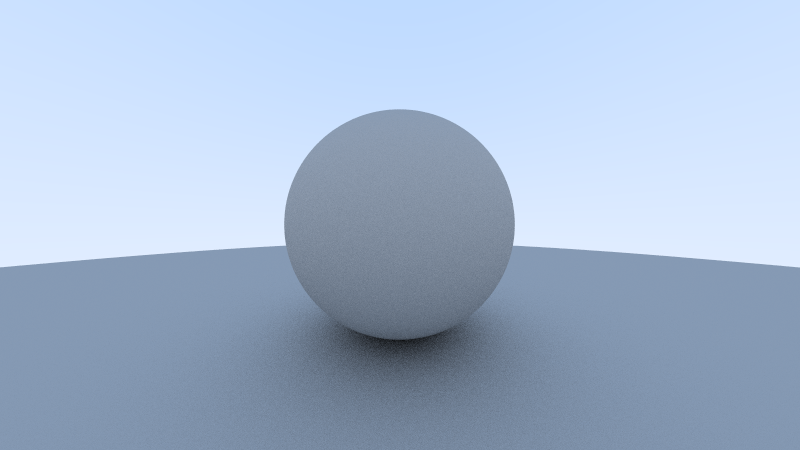
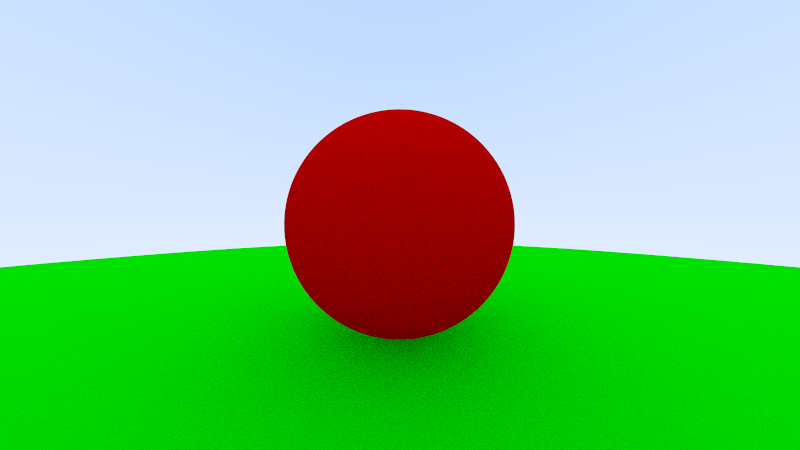
Materials and scene objects

diff --git a/src/main.rs b/src/main.rs
@@ -1,6 +1,7 @@
 mod color;
 mod config;
 mod image;
+mod material;
 mod math;
 mod random;
 mod scene;
@@ -23,17 +24,18 @@ pub type RayResult<T> = Result<T, Box<dyn std::error::Error>>;
 
 fn cast_ray(ray: &Ray, scene: &Scene, random: &mut Random, depth: u32) -> Color {
     if depth == 0 {
-        return Color::new(0.0, 0.0, 0.0);
+        return Color::BLACK;
     }
-    let hit = scene.shapes
+    let hit = scene.objects
         .iter()
-        .flat_map(|shape| shape.hit(&ray))
-        .min_by(|hit1, hit2| hit1.t.partial_cmp(&hit2.t).unwrap());
-    if let Some(hit) = hit {
-        let origin = ray.at(hit.t);
-        let direction = hit.normal + random.in_unit_sphere();
-        let ray = Ray { origin, direction };
-        return cast_ray(&ray, scene, random, depth - 1) * 0.5;
+        .flat_map(|object| object.shape.hit(&ray).map(|hit| (hit, &object.material)))
+        .min_by(|hit1, hit2| hit1.0.t.partial_cmp(&hit2.0.t).unwrap());
+    if let Some((hit, material)) = hit {
+        if let Some((color, ray)) = material.scatter(ray, &hit, random) {
+            return color * cast_ray(&ray, scene, random, depth - 1);
+        } else {
+            return Color::BLACK;
+        }
     }
     let unit_direction = ray.direction.normalized();
     let t = 0.5 * (unit_direction.y + 1.0);
@@ -47,7 +49,7 @@ fn render(scene: &Scene, config: &Config) -> Image {
     let mut colors = Vec::with_capacity((config.width * config.height) as usize);
     for j in 0 .. config.height {
         for i in 0 .. config.width {
-            let mut color = Color::new(0.0, 0.0, 0.0);
+            let mut color = Color::BLACK;
             for _ in 0 .. config.samples {
                 let u = (i as f64 + random.range01()) / (config.width - 1) as f64;
                 let v = 1.0 - (j as f64 + random.range01()) / (config.height - 1) as f64;

diff --git a/src/color.rs b/src/color.rs
@@ -1,8 +1,9 @@
 use std::ops::{Add, Mul};
-use serde::Deserialize;
+use serde::{Serialize, Deserialize};
 
 #[derive(Copy, Clone, Debug, Default, PartialEq)]
-#[derive(Deserialize)]
+#[derive(Serialize, Deserialize)]
+#[serde(into = "[f64; 3]")]
 #[serde(from = "[f64; 3]")]
 pub struct Color {
     pub r: f64,
@@ -11,6 +12,8 @@ pub struct Color {
 }
 
 impl Color {
+    pub const BLACK: Self = Self::new(0.0, 0.0, 0.0);
+    
     pub const fn new(r: f64, g: f64, b: f64) -> Self {
         Self { r, g, b }
     }
@@ -21,6 +24,12 @@ impl Color {
             g: self.g + (other.g - self.g) * t,
             b: self.b + (other.b - self.b) * t,
         }
+    }
+}
+
+impl Into<[f64; 3]> for Color {
+    fn into(self) -> [f64; 3] {
+        [self.r, self.g, self.b]
     }
 }
 
@@ -54,6 +63,18 @@ impl Mul<f64> for Color {
             r: self.r * other,
             g: self.g * other,
             b: self.b * other,
+        }
+    }   
+}
+
+impl Mul for Color {
+    type Output = Self;
+    
+    fn mul(self, other: Color) -> Self::Output {
+        Self {
+            r: self.r * other.r,
+            g: self.g * other.g,
+            b: self.b * other.b,
         }
     }   
 }

diff --git a/src/random.rs b/src/random.rs
@@ -25,7 +25,7 @@ impl Random {
         self.state as f64 / 4294967296.0
     }
 
-    pub fn in_unit_sphere(&mut self) -> Vector3 {
+    pub fn in_sphere(&mut self) -> Vector3 {
         loop {
             let v = Vector3::new(
                 self.range01() * 2.0 - 1.0, 
@@ -35,6 +35,15 @@ impl Random {
             if v.length_squared() < 1.0 {
                 return v;
             }
+        }
+    }
+
+    pub fn in_hemisphere(&mut self, normal: &Vector3) -> Vector3 {
+        let in_sphere = self.in_sphere();
+        if in_sphere.dot(normal) > 0.0 {
+            in_sphere
+        } else {
+            -in_sphere
         }
     }
 }

diff --git a/src/material.rs b/src/material.rs
@@ -1,0 +1,21 @@
+use serde::{Serialize, Deserialize};
+use crate::{
+    color::Color,
+    math::Ray,
+    random::Random,
+    shapes::Hit,
+};
+
+#[derive(Serialize, Deserialize)]
+pub struct Material {
+    pub albedo: Color,
+}
+
+impl Material {
+    pub fn scatter(&self, ray: &Ray, hit: &Hit, random: &mut Random) -> Option<(Color, Ray)> {
+        let origin = ray.at(hit.t);
+        let direction = random.in_hemisphere(&hit.normal);//hit.normal + random.in_sphere();
+        let ray = Ray { origin, direction };
+        Some((self.albedo, ray))
+    }
+}

diff --git a/src/math.rs b/src/math.rs
@@ -1,4 +1,4 @@
-use std::ops::{Add, Sub, Mul};
+use std::ops::{Add, Sub, Mul, Neg};
 use serde::Deserialize;
 
 #[derive(Copy, Clone, Debug, Default, PartialEq)]
@@ -64,6 +64,14 @@ impl Mul<f64> for Vector3 {
 
     fn mul(self, other: f64) -> Self::Output {
         Self::new(self.x * other, self.y * other, self.z * other)
+    }
+}
+
+impl Neg for Vector3 {
+    type Output = Self;
+
+    fn neg(self) -> Self::Output {
+        Self::new(-self.x, -self.y, -self.z)
     }
 }
 

diff --git a/src/scene.rs b/src/scene.rs
@@ -1,6 +1,7 @@
 use serde::Deserialize;
 use crate::{
     color::Color,
+    material::Material,
     math::{Vector3, Ray},
     shapes::Sphere,
 };
@@ -9,7 +10,13 @@ use crate::{
 pub struct Scene {
     pub camera: Camera,
     pub background: Background,
-    pub shapes: Vec<Sphere>,
+    pub objects: Vec<SceneObject>,
+}
+
+#[derive(Deserialize)]
+pub struct SceneObject {
+    pub shape: Sphere,
+    pub material: Material,
 }
 
 #[derive(Deserialize)]
